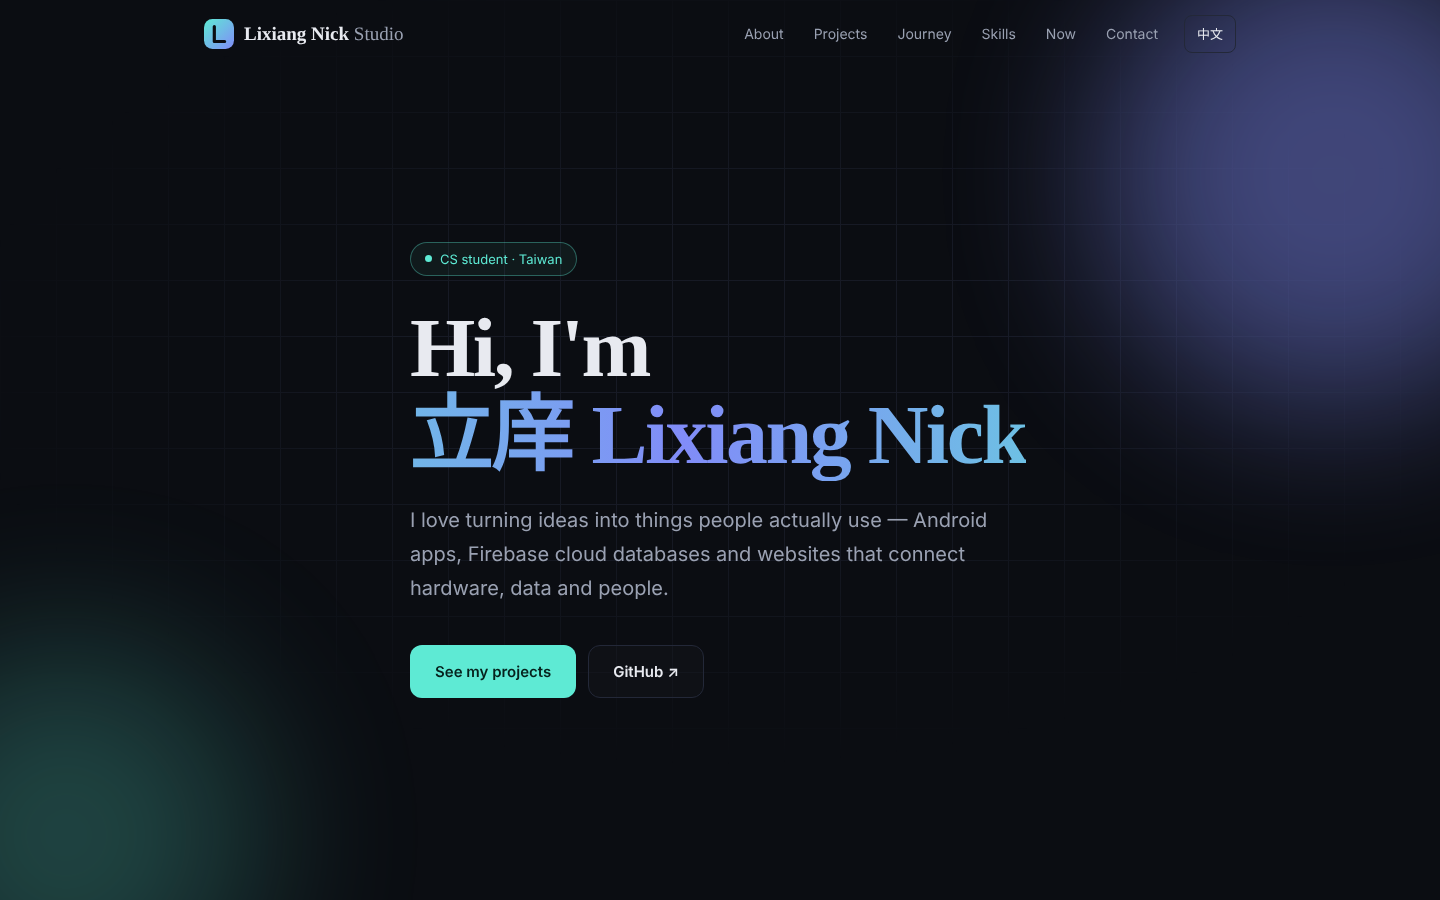
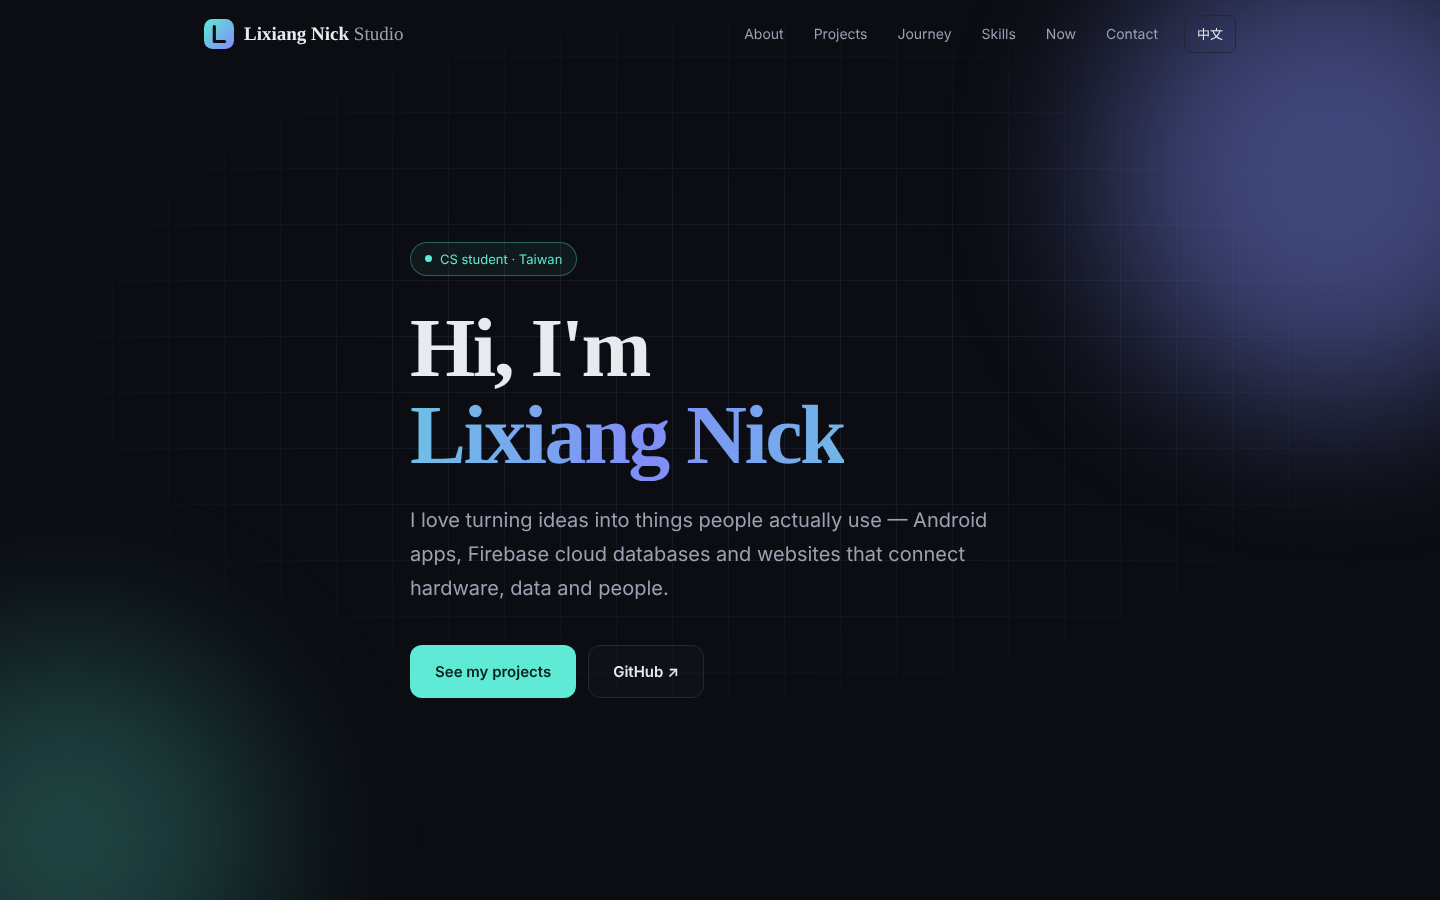
Remove Chinese name; use Lixiang only
Claude-Session: https://claude.ai/code/session_01EBZHduDSTzSEw5gpksr7mL

Changed region(s): [[0.2812, 0.4356, 0.7188, 0.56]]

diff --git a/index.html b/index.html
@@ -3,14 +3,14 @@
 <head>
 <meta charset="UTF-8">
 <meta name="viewport" content="width=device-width, initial-scale=1">
-<title>Lixiang Nick Studio · 立庠</title>
-<meta name="description" content="我是立庠（Lixiang Nick），在台灣學資訊工程，喜歡做 Android App、Firebase 雲端和網頁。這裡是我的作品與介紹。">
+<title>Lixiang Nick Studio</title>
+<meta name="description" content="我是 Lixiang Nick，在台灣學資訊工程，喜歡做 Android App、Firebase 雲端和網頁。這裡是我的作品與介紹。">
 <meta name="theme-color" content="#0b0d12">
 <link rel="canonical" href="https://classy-beignet-781d38.netlify.app/">
 <link rel="icon" href="favicon.svg" type="image/svg+xml">
 <link rel="apple-touch-icon" href="apple-touch-icon.png">
 <meta property="og:type" content="profile">
-<meta property="og:title" content="Lixiang Nick Studio · 立庠">
+<meta property="og:title" content="Lixiang Nick Studio">
 <meta property="og:description" content="Android App · Firebase · Web — 我的作品與介紹。">
 <meta property="og:url" content="https://classy-beignet-781d38.netlify.app/">
 <meta property="og:image" content="https://classy-beignet-781d38.netlify.app/og.png">
@@ -19,7 +19,7 @@
 <meta name="twitter:card" content="summary_large_image">
 <meta name="twitter:image" content="https://classy-beignet-781d38.netlify.app/og.png">
 <script type="application/ld+json">
-{"@context":"https://schema.org","@type":"Person","name":"Lixiang Nick","alternateName":"立庠","url":"https://classy-beignet-781d38.netlify.app/","email":"lixiangsu6@gmail.com","knowsAbout":["Android","Firebase","Web development","ESP32"],"sameAs":["https://github.com/Black-tea666888"]}
+{"@context":"https://schema.org","@type":"Person","name":"Lixiang Nick","url":"https://classy-beignet-781d38.netlify.app/","email":"lixiangsu6@gmail.com","knowsAbout":["Android","Firebase","Web development","ESP32"],"sameAs":["https://github.com/Black-tea666888"]}
 </script>
 <link rel="preconnect" href="https://fonts.googleapis.com">
 <link rel="preconnect" href="https://fonts.gstatic.com" crossorigin>
@@ -245,7 +245,7 @@ footer a:hover{color:var(--text)}
   <div class="bg-grid"></div><div class="orb a"></div><div class="orb b"></div>
   <div class="wrap"><div class="hero">
     <div class="tag"><i></i><span data-i18n="tag">資訊工程學生 · 台灣</span></div>
-    <h1><span data-i18n="hi">你好，我是</span><br><span class="grad">立庠 Lixiang Nick</span></h1>
+    <h1><span data-i18n="hi">你好，我是</span><br><span class="grad">Lixiang Nick</span></h1>
     <p class="lead" data-i18n="lead">我喜歡把想法做成真的能用的東西——從 Android App、Firebase 雲端資料庫到網頁，把硬體、資料和使用者連在一起。</p>
     <div class="btns">
       <a href="#projects" class="btn primary" data-i18n="cta1">看我的作品</a>
@@ -259,11 +259,11 @@ footer a:hover{color:var(--text)}
   <div class="reveal">
     <div class="eyebrow" data-i18n="ab_e">About</div>
     <h2 data-i18n="about_t">關於我</h2>
-    <p data-i18n="about_p1">我是立庠，目前在台灣讀資訊工程。比起只寫作業，我更喜歡做出別人真的會用的東西，所以常常一個人從資料庫、App 一路做到網頁。</p>
+    <p data-i18n="about_p1">我是 Lixiang，目前在台灣讀資訊工程。比起只寫作業，我更喜歡做出別人真的會用的東西，所以常常一個人從資料庫、App 一路做到網頁。</p>
     <p data-i18n="about_p2">Lixiang Nick Studio 是我放個人作品和實驗的地方，記錄我做過的專案和正在學的東西。</p>
   </div>
   <div class="facts reveal">
-    <div><span data-i18n="f_name">名字</span><span data-i18n="f_name_v">立庠 Lixiang Nick</span></div>
+    <div><span data-i18n="f_name">名字</span><span data-i18n="f_name_v">Lixiang Nick</span></div>
     <div><span data-i18n="f_study">主修</span><span data-i18n="f_study_v">資訊工程</span></div>
     <div><span data-i18n="f_focus">喜歡做</span><span>Android · Firebase · Web</span></div>
     <div><span data-i18n="f_loc">所在地</span><span data-i18n="f_loc_v">台灣</span></div>
@@ -362,12 +362,12 @@ footer a:hover{color:var(--text)}
 
 <footer><div class="wrap">
   <div class="fgrid">
-    <div><a href="#top" class="logo"><svg viewBox="0 0 32 32" aria-hidden="true"><defs><linearGradient id="lg2" x1="0" y1="0" x2="1" y2="1"><stop offset="0" stop-color="#5eead4"/><stop offset="1" stop-color="#818cf8"/></linearGradient></defs><rect width="32" height="32" rx="9" fill="url(#lg2)"/><path d="M11 8v16h11" fill="none" stroke="#0b0d12" stroke-width="3.4" stroke-linecap="round" stroke-linejoin="round"/></svg><span>Lixiang Nick<span class="lt"> Studio</span></span></a><p data-i18n="f_tag">立庠的個人網站——作品、技能與近況。</p></div>
+    <div><a href="#top" class="logo"><svg viewBox="0 0 32 32" aria-hidden="true"><defs><linearGradient id="lg2" x1="0" y1="0" x2="1" y2="1"><stop offset="0" stop-color="#5eead4"/><stop offset="1" stop-color="#818cf8"/></linearGradient></defs><rect width="32" height="32" rx="9" fill="url(#lg2)"/><path d="M11 8v16h11" fill="none" stroke="#0b0d12" stroke-width="3.4" stroke-linecap="round" stroke-linejoin="round"/></svg><span>Lixiang Nick<span class="lt"> Studio</span></span></a><p data-i18n="f_tag">Lixiang 的個人網站——作品、技能與近況。</p></div>
     <div><h3 class="fh" data-i18n="f_h1">網站</h3><ul><li><a href="#about" data-i18n="nav_about">關於我</a></li><li><a href="#skills" data-i18n="nav_skills">技能</a></li><li><a href="#now" data-i18n="nav_now">近況</a></li></ul></div>
     <div><h3 class="fh" data-i18n="f_h2">作品</h3><ul><li><a href="#projects" data-i18n="f_p1">智慧車位</a></li><li><a href="https://shiny-kleicha-085187.netlify.app" target="_blank" rel="noopener">Skyline</a></li><li><a href="#projects">LuckyDraw</a></li></ul></div>
     <div><h3 class="fh" data-i18n="f_h3">連結</h3><ul><li><a href="mailto:lixiangsu6@gmail.com">Email</a></li><li><a href="https://github.com/Black-tea666888" target="_blank" rel="noopener">GitHub</a></li><li><a href="brand.html" data-i18n="f_brand">品牌資源</a></li><li><a href="privacy.html" data-i18n="lg2">隱私權政策</a></li></ul></div>
   </div>
-  <div class="fbar"><span>© <span id="yr"></span> Lixiang Nick Studio · 立庠</span><a href="#top" data-i18n="top">回到頂部 ↑</a></div>
+  <div class="fbar"><span>© <span id="yr"></span> Lixiang Nick Studio</span><a href="#top" data-i18n="top">回到頂部 ↑</a></div>
 </div></footer>
 
 <script>

diff --git a/brand.html b/brand.html
@@ -46,7 +46,7 @@ footer{padding:32px 0;color:var(--mute);font-size:13px}
 <header><div class="wrap">
   <a href="index.html" class="back">← Lixiang Nick Studio</a>
   <h1>品牌資源 Brand Kit</h1>
-  <p class="lead">立庠工作室的 Logo、色彩、字體與語氣。讓每一次露出都一致。</p>
+  <p class="lead">Lixiang Nick Studio 的 Logo、色彩、字體與語氣。讓每一次露出都一致。</p>
 </div></header>
 <main>
 <section><div class="wrap">
@@ -86,7 +86,7 @@ footer{padding:32px 0;color:var(--mute);font-size:13px}
 </div></section>
 
 </main>
-<footer><div class="wrap">© <span id="yr"></span> Lixiang Nick Studio · 立庠工作室</div></footer>
+<footer><div class="wrap">© <span id="yr"></span> Lixiang Nick Studio</div></footer>
 <script>
 const C=[["Ink","#0B0D12","背景"],["Panel","#141821","卡片"],["Line","#232838","分隔線"],["Paper","#E8EAF0","主要文字"],["Mist","#9AA1B2","次要文字"],["Mint","#5EEAD4","主色"],["Indigo","#818CF8","輔色"]];
 const g=document.getElementById("colors");
